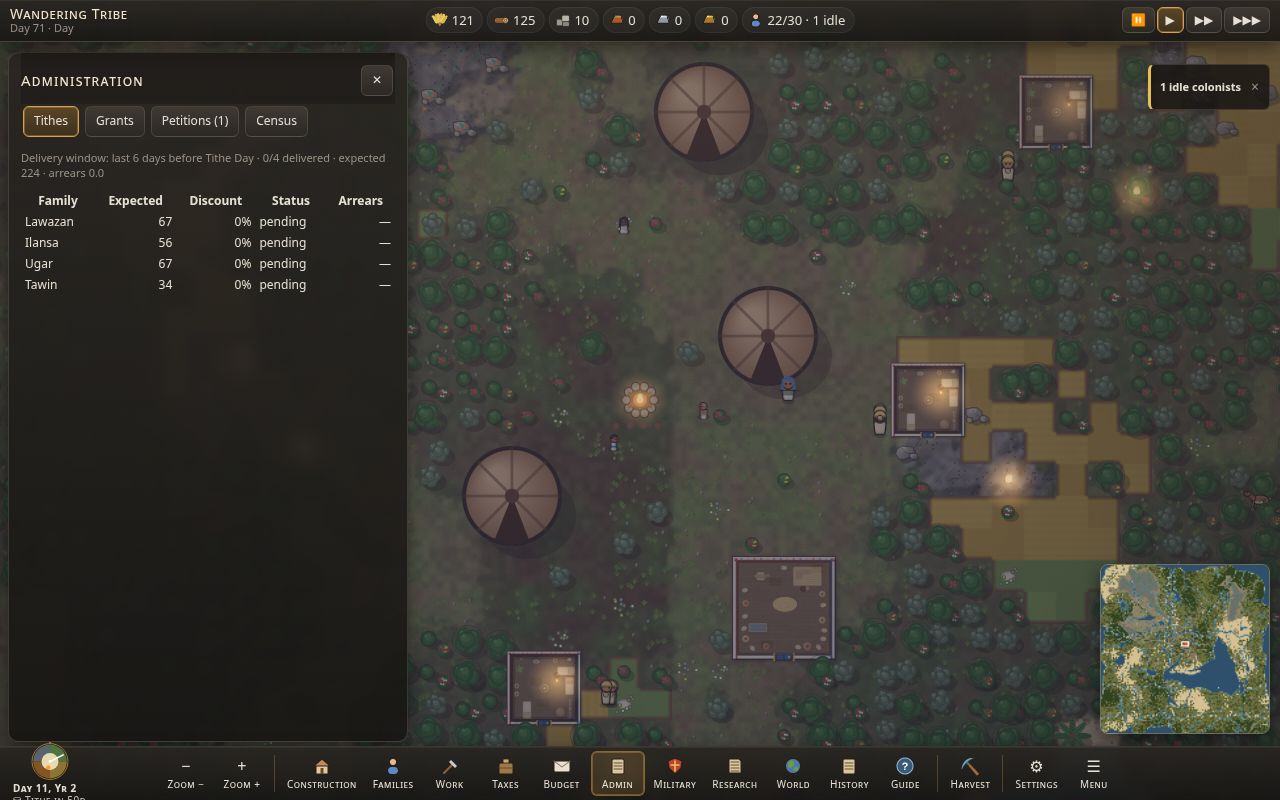
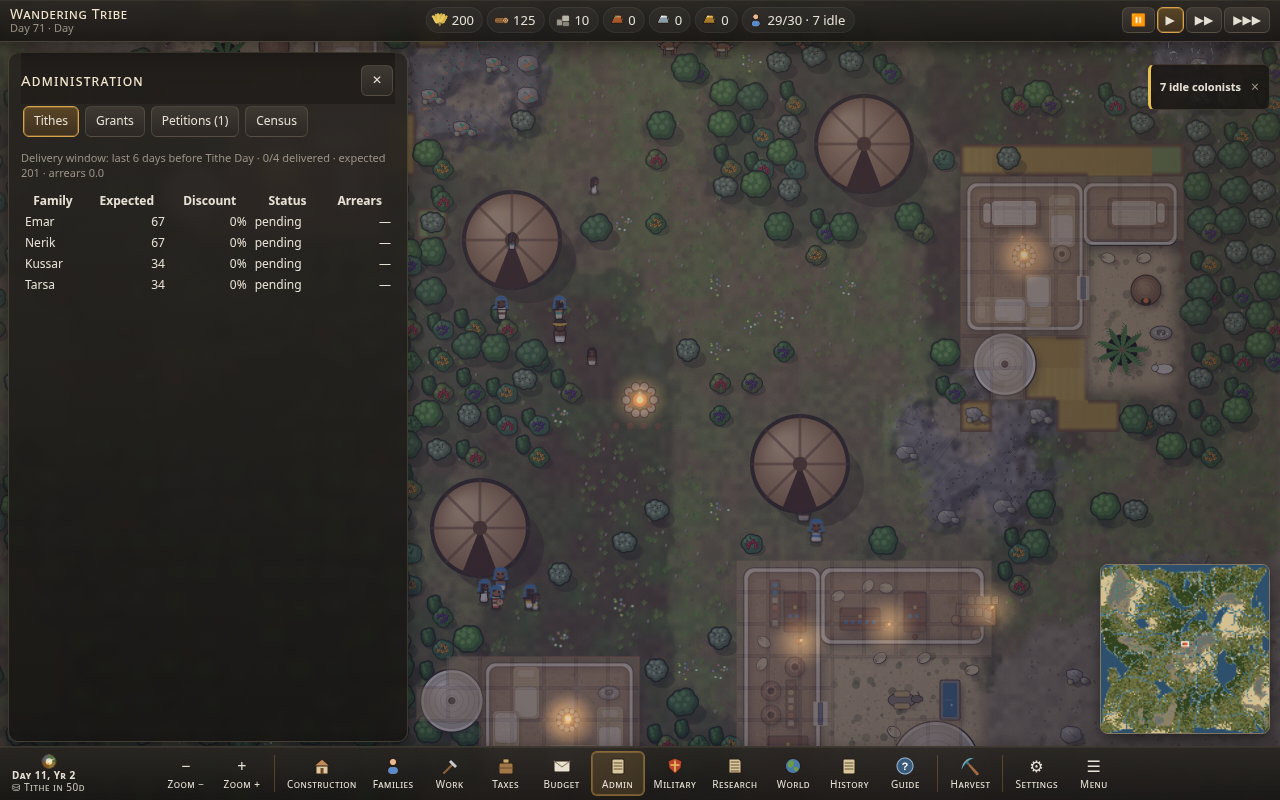
Shape-mask footprints for every building type (own function-specific layout each: L-sheds, dome ovens, courts, paddocks, ore yards, treasury compound, farmstead with byre + grain dome, town house + workshop); per-instance auto variant/rotation; bigger buildings; farmstead compounds placed by mask in

diff --git a/index.html b/index.html
@@ -503,9 +503,10 @@ function grantEval(a,b){const x0=Math.min(a.gx,b.gx),x1=Math.max(a.gx,b.gx),y0=M
  if(r.tiles.length<GRANT_MIN+4)r.err=r.err||('Too small: '+r.tiles.length+' usable tiles (min '+(GRANT_MIN+4)+')');
  const n=r.tiles.length||1;r.land=c.s>=n*.3&&c.w>=3?'clay':c.w>=6?'river':c.f>=n*.4?'forest':c.h>=n*.4?'hills':c.s>=n*.4?'clay':'plain';r.suit=Math.round(Math.min(100,(r.tiles.length/(w*h))*100*(c.w>=3?1.1:1)));return r}
 function grantMake(g){const E=S.eco;if(pendFam()<1){log('No family is waiting for land.');return false}
- // farmhouse: best free 2x2 spot inside the grant, nearest the town
- const set=new Set(g.tiles);let hb=null,bd=1e9;for(let y=g.y0;y<g.y1;y++)for(let x=g.x0;x<g.x1;x++){const ii=[y*MW+x,y*MW+x+1,(y+1)*MW+x,(y+1)*MW+x+1];if(!ii.every(i=>set.has(i)&&TER[i]!==T_FOREST))continue;const d=Math.hypot(x-S.center.x,y-S.center.y);if(d<bd){bd=d;hb={x,y}}}
- if(!hb){log('No flat spot for a farmhouse in that grant.');return false}const hs=new Set([hb.y*MW+hb.x,hb.y*MW+hb.x+1,(hb.y+1)*MW+hb.x,(hb.y+1)*MW+hb.x+1]);
+ // farmstead compound (shape-mask footprint): best free spot inside the grant, nearest the town; masked-out corners may be forest/field
+ const set=new Set(g.tiles),SZ=bsz('stead');let hb=null,bd=1e9,hs=null;for(let y=g.y0;y<=g.y1-SZ+1;y++)for(let x=g.x0;x<=g.x1-SZ+1;x++){const M=fpMask('stead',bfp({t:'stead',x,y}));const ii=[];let ok=true;for(let j=0;j<SZ&&ok;j++)for(let i=0;i<SZ;i++){if(M&&!M[j*SZ+i])continue;const k=(y+j)*MW+x+i;if(!set.has(k)&&TER[k]!==T_FOREST){ok=false;break}if(occ[k]||TER[k]===T_WATER){ok=false;break}ii.push(k)}if(!ok)continue;const d=Math.hypot(x-S.center.x,y-S.center.y);if(d<bd){bd=d;hb={x,y};hs=new Set(ii)}}
+ if(hb)for(const k of hs)if(TER[k]===T_FOREST){TER[k]=T_GRASS;try{dirtyTile(k%MW,k/MW|0)}catch(e){}}// the family clears the trees under its farmstead
+ if(!hb){log('No room for a farmstead in that grant (needs about '+SZ+'×'+SZ+' clear tiles).');return false}
  // take the family: waiting family first, else 3 idle; otherwise from the least important jobs
  const FF=famNextPend();let take=FF?Math.max(1,FF.m.length):3;let idle=S.pop-employed();if(idle<take){let need=take-Math.max(0,idle);const ks=Object.keys(S.jobs).filter(j=>S.jobs[j]>0).sort((a,b)=>(S.prio&&S.prio[b]||3)-(S.prio&&S.prio[a]||3));for(const j of ks){while(need>0&&S.jobs[j]>0){S.jobs[j]--;need--}}if(need>0)S.pop+=need}
  const b={t:'stead',l:1,x:hb.x,y:hb.y};S.bl.push(b);rebuildOcc();try{autoRoadFor(b)}catch(e){}
@@ -1046,7 +1047,7 @@ const SPR={};
 // ---- buildings (hi-res sprites, multi-tile) ----
 const bsz=t=>(BLD[t]&&BLD[t].sz)||1;
 // realistic proportions: buildings at true scale vs ~0.65-tile people (art drawn at design size then scaled)
-const NSZ={tavern:6,shrine:2,senet:2,plaza:5,trainingcamp:7,spearschool:6,archery:7,slingfield:6,axehall:6,stables:7,gatherhut:4,storehouse:6,bakery:6,brewery:6,tent:4,campfire:2,stockpile:5,garden:4,farm:8,house:7,lodge:6,lumber:6,quarry:6,barracks:8,granary:7,well:2,copper:6,tin:6,smelter:7,temple:12,market:8,palace:12,statue:2};
+const NSZ={holding:8,stead:7,craft:7,tavern:8,shrine:3,senet:2,plaza:5,trainingcamp:7,spearschool:6,archery:7,slingfield:6,axehall:6,stables:7,gatherhut:6,storehouse:8,bakery:7,brewery:7,tent:4,campfire:2,stockpile:5,garden:4,farm:8,house:9,lodge:6,lumber:6,quarry:6,barracks:10,granary:8,well:2,copper:6,tin:6,smelter:7,temple:12,market:8,palace:12,statue:3};
 const BCOSTX={house:1.4,barracks:1.4,granary:1.4,temple:1.4,palace:1.3,market:1.3,smelter:1.3,lodge:1.2,lumber:1.2};
 for(const k in NSZ)if(BLD[k]){BLD[k].osz=BLD[k].sz||1;BLD[k].sz=NSZ[k];if(BCOSTX[k])for(const r in BLD[k].cost)BLD[k].cost[r]=Math.round(BLD[k].cost[r]*BCOSTX[k])}
 // ---- placement, occupancy, A*, roads ----
@@ -2857,6 +2858,25 @@ const FP={
  granary:[{n:'Beehive silos',p:[['c',.27,.27,.25,'dome'],['c',.73,.27,.25,'dome'],['c',.27,.73,.25,'dome'],['c',.73,.73,.25,'dome']],door:[.5,.99],k:'silo'},
   {n:'Great dome',p:[['c',.5,.5,.47,'dome']],door:[.5,.97],k:'silo'},{n:'Silo row and yard',p:[['c',.18,.24,.17,'dome'],['c',.5,.24,.17,'dome'],['c',.82,.24,.17,'dome'],['r',.04,.44,.92,.53,'court']],door:[.5,.97],k:'silo'}],
  farm:[{n:'Wheat field',legacy:1}],
+ gatherhut:[{n:'L-shaped gatherers\' shed',p:[['r',.04,.04,.62,.48],['r',.04,.04,.36,.92],['r',.4,.52,.56,.44,'court']],door:[.55,.52],k:'gather'}],
+ bakery:[{n:'Bakehouse with dome oven',p:[['r',.04,.18,.6,.56],['c',.79,.46,.19,'dome'],['r',.04,.74,.62,.22,'court']],door:[.34,.74],k:'bakehouse'}],
+ brewery:[{n:'Brewhouse and mash yard',p:[['r',.04,.04,.92,.44],['e',.27,.73,.23,.22],['r',.54,.48,.42,.48,'court']],door:[.75,.48],k:'brew'}],
+ storehouse:[{n:'Long store with tally room',p:[['r',.04,.08,.6,.86],['r',.64,.3,.32,.46]],door:[.34,.94],k:'store'}],
+ tavern:[{n:'Tavern with drinking yard',p:[['r',.04,.04,.6,.6],['r',.64,.04,.32,.4],['r',.04,.64,.92,.32,'court']],door:[.34,.64],k:'tavern'}],
+ shrine:[{n:'Round shrine and forecourt',p:[['c',.5,.38,.34],['r',.28,.7,.44,.27,'court']],door:[.5,.72],k:'shrine'}],
+ trainingcamp:[{n:'Hut and drill ground',p:[['r',.04,.04,.42,.3],['r',.04,.34,.92,.62,'court']],door:[.25,.34],k:'drill'}],
+ spearschool:[{n:'Spear hall and yard',p:[['r',.04,.04,.92,.3],['r',.04,.34,.92,.62,'court']],door:[.5,.34],k:'spear'}],
+ archery:[{n:'Bow shed and range',p:[['r',.04,.04,.3,.92],['r',.34,.04,.62,.92,'court']],door:[.34,.5],k:'archery'}],
+ slingfield:[{n:'Round hut and sling field',p:[['c',.25,.25,.21],['r',.04,.5,.92,.46,'court']],door:[.25,.46],k:'sling'}],
+ axehall:[{n:'Axe hall and sparring ring',p:[['r',.04,.16,.92,.52],['e',.5,.84,.3,.14,'court']],door:[.5,.68],k:'axe'}],
+ stables:[{n:'L stables round a paddock',p:[['r',.04,.04,.92,.34],['r',.04,.38,.3,.58],['r',.34,.38,.62,.58,'court']],door:[.55,.38],k:'stable2'}],
+ quarry:[{n:'Mason\'s shed and stone yard',p:[['r',.58,.04,.38,.32],['e',.42,.62,.4,.34,'court']],door:[.7,.36],k:'quarryhut'}],
+ copper:[{n:'Miners\' hut and ore yard',p:[['r',.04,.04,.42,.34],['e',.6,.6,.36,.36,'court']],door:[.3,.38],k:'minehut'}],
+ tin:[{n:'Round miners\' hut and ore yard',p:[['c',.27,.27,.23],['e',.62,.64,.34,.32,'court']],door:[.4,.45],k:'minehut2'}],
+ holding:[{n:'Treasury compound round a court',p:[['r',.03,.03,.94,.3],['r',.03,.33,.3,.64],['c',.8,.78,.17,'dome'],['r',.33,.33,.64,.64,'court']],door:[.6,.33],k:'holding'}],
+ stead:[{n:'Farmstead with byre and grain dome',p:[['r',.03,.03,.66,.52],['c',.84,.2,.14,'dome'],['r',.03,.55,.28,.42],['r',.31,.55,.66,.42,'court']],door:[.5,.55],k:'stead'}],
+ craft:[{n:'Town house with workshop',p:[['r',.04,.04,.55,.45],['r',.59,.04,.37,.62],['r',.04,.49,.55,.47,'court']],door:[.3,.49],k:'workshop'}],
+ statue:[{n:'Round plinth',p:[['c',.5,.5,.42]],k:'plinth'}],
  barracks:[{n:'Long barracks',p:[['r',.02,.3,.96,.4]],door:[.5,.7],k:'barracks'},{n:'Stable block',p:[['r',.31,.02,.38,.96]],door:[.69,.5],k:'stable'},
   {n:'L barracks + drill yard',p:[['r',.02,.02,.96,.33],['r',.02,.02,.33,.96],['r',.35,.35,.63,.63,'court']],door:[.18,.98],k:'barracks'}],
  smelter:[{n:'Round kiln house',p:[['c',.5,.5,.47]],door:[.5,.97],k:'kiln'},{n:'Twin kilns',p:[['c',.3,.33,.29],['c',.69,.64,.3]],door:[.69,.94],k:'kiln'}],
@@ -2874,7 +2894,7 @@ function fpMask(t,f){if(!f||!FP[t])return null;const k=t+'|'+(f.v||0)+(f.r||0)+(
   let any=0;for(const v of M)any|=v;if(!any)M=null}
  FPM.set(k,M);return M}
 let CURFP=null,PV={v:0,r:0,m:0};
-const bfp=b=>b&&b.fv&&FP[b.t]?b.fv:null;
+const bfp=b=>{if(!b||!FP[b.t])return null;if(b.fv)return b.fv;if(b._af===undefined){const ok=FP[b.t].map((v,i)=>v.legacy?-1:i).filter(i=>i>=0);b._af=ok.length?{v:ok[(hsh(b.x|0,b.y|0,5)*ok.length)|0],r:(hsh(b.x|0,b.y|0,6)*4)|0,m:hsh(b.x|0,b.y|0,7)<.5?1:0}:null}return b._af};
 function fpDoor(b){const f=bfp(b);if(!f)return null;const V=FP[b.t][f.v||0];if(!V||V.legacy||!V.door)return null;const s=bsz(b.t),d=fpT(V.door[0],V.door[1],f),M=fpMask(b.t,f);if(!M)return null;
  let best=null,bd=1e9;for(let j=0;j<s;j++)for(let i=0;i<s;i++){if(!M[j*s+i])continue;for(const[a,c]of[[1,0],[-1,0],[0,1],[0,-1]]){const ii=i+a,jj=j+c;if(ii>=0&&jj>=0&&ii<s&&jj<s&&M[jj*s+ii])continue;const dd=((ii+.5)/s-d[0])**2+((jj+.5)/s-d[1])**2;if(dd<bd&&walkC(b.x+ii,b.y+jj)){bd=dd;best={x:b.x+ii+.5,y:b.y+jj+.5}}}}return best}
 const FPB={on:0,n:2};// per-frame budget for building new detailed sprites (avoids hitches on phones)
@@ -3100,11 +3120,32 @@ function X_furnish(g,kd,W,test,door,m,l,seed,extra){const id=civId(),PL=X_PAL[id
   for(let i=0;i<6;i++)P(1,26,26,'wall',b=>X_pithos(g,b.cx,b.cy,11),{gap:1});lamps(1,3);P(1,30,30,'wall',b=>X_extra(g,id,b.cx,b.cy,m));
   if(A2){if(kd==='palace')pool(2,Math.min(120,W*.18),Math.min(80,W*.12));for(let i=0;i<3;i++)P(2,56,56,'wall',b=>id==='egypt'||id==='babylon'||id==='minoan'?X_palm(g,b.cx,b.cy,24):X_plant(g,b.cx,b.cy,12),{gap:0,rot:false});P(2,30,30,'center',b=>X_statue(g,b.cx,b.cy,'#e0b040'));for(let i=0;i<2;i++)P(2,20,20,'any',b=>X_brazier(g,b.cx,b.cy,m),{gap:20})}X_RICH=0;return}
  // gatherer's hut: a workplace (workers sleep at home) — drying racks and baskets on the walls, a sorting table with one stool per worker slot, storage jars
- if(kd==='gather'){const WK=4;const BK=(b)=>{X_ell(g,b.cx+1,b.cy+2,7,4.5,'rgba(0,0,0,.22)');X_circ(g,b.cx,b.cy,6,'#b08a4a',X_OL,1);X_circ(g,b.cx,b.cy,4.2,'#8a6a34');for(let k=0;k<5;k++)X_circ(g,b.cx-2.5+X_rnd()*5,b.cy-2.5+X_rnd()*5,1.4,['#b83a4a','#6a3a8a','#c84a2a','#4a7a3a'][k%4])};
+ if(kd==='gather'){const WK=2;const BK=(b)=>{X_ell(g,b.cx+1,b.cy+2,7,4.5,'rgba(0,0,0,.22)');X_circ(g,b.cx,b.cy,6,'#b08a4a',X_OL,1);X_circ(g,b.cx,b.cy,4.2,'#8a6a34');for(let k=0;k<5;k++)X_circ(g,b.cx-2.5+X_rnd()*5,b.cy-2.5+X_rnd()*5,1.4,['#b83a4a','#6a3a8a','#c84a2a','#4a7a3a'][k%4])};
   const RACK=b=>{const v=b.sw,L=v?b.h:b.w;g.save();g.translate(b.cx,b.cy);if(v)g.rotate(Math.PI/2);X_rr(g,-L/2,-2,L,4,1,'#7a5232',X_OL,1);for(const q of[-L/2+2,L/2-2])X_circ(g,q,0,2.6,'#5a3a20',X_OL,.8);for(let x=-L/2+7;x<L/2-5;x+=7){X_ln(g,x,1,x,6,'#6a4a26',1);X_ell(g,x,8,2.6,3.6,['#6a8a3a','#8a7a3a','#7a9a4a','#a8643a'][(x|0)&3],X_OL,.6)}g.restore()};
   P(1,40,22,'center',b=>{X_table(g,b.x+2,b.y+2,b.w-4,b.h-4,'#9a6c40');X_circ(g,b.cx-9,b.cy,3.4,'#c84a2a');X_circ(g,b.cx+8,b.cy-1,3.4,'#4a7a3a');for(let k=0;k<WK;k++)X_stool(g,b.x+9+(k%2)*(b.w-18),k<2?b.y-6:b.y+b.h+6);X_mark(R,b.x-6,b.y-14,b.w+12,b.h+28,0)},{gap:12,rot:false});
   for(let i=0;i<2;i++)P(1,46,12,'wall',RACK,{gap:3});
   for(let i=0;i<4;i++)P(1,14,14,'wall',BK,{gap:1});jars(1,3);return}
+ // ---- function-specific interiors (own layout per kind; workplaces have no beds; work spots = 2 worker slots) ----
+ const shelfW=(c,n,it)=>{for(let i=0;i<n;i++)P(c,48,12,'wall',b=>{if(b.sw){g.save();g.translate(b.cx,b.cy);g.rotate(Math.PI/2);X_shelf(g,-b.h/2,-6,b.h,it||4);g.restore()}else X_shelf(g,b.x,b.y,b.w,it||4)},{gap:3})};
+ const rackW=(c,n)=>{for(let i=0;i<n;i++)P(c,50,14,'wall',b=>X_weaponrack(g,b.cx,b.cy,50,b.sw?Math.PI/2:0),{gap:3})};
+ const bench=(c,w,seats)=>P(c,w,22,'center',b=>{X_table(g,b.x+2,b.y+2,b.w-4,b.h-4,'#8a5a32');for(let k=0;k<seats;k++){const col=k%Math.ceil(seats/2),nc=Math.ceil(seats/2);X_stool(g,b.x+(b.w)*(col+.5)/nc,k<nc?b.y-6:b.y+b.h+6)}X_mark(R,b.x-6,b.y-14,b.w+12,b.h+28,0)},{gap:10,rot:false});
+ const pith=(c,n)=>{for(let i=0;i<n;i++)P(c,22,22,'wall',b=>X_pithos(g,b.cx,b.cy,10),{gap:1})};
+ const target=(c,n)=>{for(let i=0;i<n;i++)P(c,24,24,'wall',b=>{X_circ(g,b.cx,b.cy,10,'#e8dcc0',X_OL,1);X_circ(g,b.cx,b.cy,6.5,'#c84a2a');X_circ(g,b.cx,b.cy,3,'#e8dcc0');X_circ(g,b.cx,b.cy,1.2,'#c84a2a')},{gap:20})};
+ const pile=(c,n,col)=>{for(let i=0;i<n;i++)P(c,22,18,'wall',b=>{for(let k=0;k<6;k++)X_circ(g,b.cx-6+(k%3)*6,b.cy-3+(k/3|0)*6-(k%3===1?2:0),4,col,X_OL,.6)},{gap:2})};
+ if(kd==='bakehouse'){bench(1,46,2);P(1,26,18,'wall',b=>X_quern(g,b.cx,b.cy));sacks(1,3);shelfW(1,1,5);jars(1,2);if(A2){pile(2,1,'#8a6038');trough(2)}return}
+ if(kd==='brew'){pith(1,5);bench(1,44,2);sacks(1,3);jars(1,3);if(A2){hearthC(2,11);P(2,30,30,'wall',b=>X_oven(g,b.cx,b.cy,13));jars(2,3)}return}
+ if(kd==='store'){shelfW(1,3,6);pith(1,4);sacks(1,8);jars(1,6);P(1,40,24,'far',b=>{X_desk(g,b.cx,b.cy,m);X_tablets(g,b.cx+12,b.cy-8,3)},{gap:6});return}
+ if(kd==='tavern'){hearthC(1,12);for(let i=0;i<2;i++)bench(1,44,4);shelfW(1,1,6);pith(1,2);jars(1,3);if(A2){bench(2,40,4);P(2,22,22,'wall',b=>X_plant(g,b.cx,b.cy,9))}return}
+ if(kd==='shrine'){P(1,30,20,'center',b=>X_altar(g,b.x,b.y,b.w,b.h,m),{gap:8,rot:false});lamps(1,2);P(1,14,14,'wall',b=>X_offering(g,b.cx,b.cy));if(A2){P(2,18,18,'center',b=>X_brazier(g,b.cx,b.cy,m),{gap:6})}return}
+ if(kd==='drill'||kd==='spear'||kd==='axe'){rackW(1,kd==='spear'?3:2);for(let i=0;i<3;i++)P(1,16,16,'wall',b=>X_shield(g,b.cx,b.cy,'#8a4a2a'),{gap:2});P(1,40,22,'wall',b=>X_chest(g,b.x,b.y,b.w,b.h,0),{gap:4});if(kd==='axe')P(1,26,22,'center',b=>X_anvil(g,b.cx,b.cy));if(A2){for(let i=0;i<3;i++)P(2,12,12,'center',b=>{X_circ(g,b.cx,b.cy,4,'#6a4a2a',X_OL,.8);X_ln(g,b.cx,b.cy-10,b.cx,b.cy,'#7a5232',2)},{gap:26})}return}
+ if(kd==='archery'){rackW(1,2);sacks(1,2);jars(1,2);P(1,40,22,'wall',b=>X_chest(g,b.x,b.y,b.w,b.h,0));if(A2)target(2,3);return}
+ if(kd==='sling'){pile(1,2,'#a8a294');rackW(1,1);if(A2){target(2,3);pile(2,2,'#a8a294')}return}
+ if(kd==='stable2'){for(let i=0;i<2;i++)trough(1);for(let i=0;i<3;i++)P(1,56,30,'wall',b=>X_horse(g,b.cx,b.cy,i%2?1:-1,['#6a4226','#3a2a1a','#a87a4a'][i]),{gap:4,rot:false});sacks(1,3);rackW(1,1);if(A2){P(2,56,30,'any',b=>X_horse(g,b.cx,b.cy,1,'#8a5a32'),{rot:false});trough(2)}return}
+ if(kd==='quarryhut'||kd==='minehut'||kd==='minehut2'){rackW(1,1);bench(1,40,2);sacks(1,2);if(kd!=='quarryhut')P(1,30,16,'wall',b=>X_ingots(g,b.cx,b.cy,4));if(A2){const col=kd==='quarryhut'?'#c8c0b0':kd==='minehut'?'#5a8a6a':'#8a9aa8';pile(2,4,col)}return}
+ if(kd==='holding'){P(1,40,24,'far',b=>{X_desk(g,b.cx,b.cy,m);X_tablets(g,b.cx+12,b.cy-8,4);X_stool(g,b.cx,b.cy+16)},{gap:8});for(let i=0;i<4;i++)P(1,40,22,'wall',b=>X_chest(g,b.x,b.y,b.w,b.h,1),{gap:3});pith(1,6);sacks(1,6);shelfW(1,2,6);lamps(1,2);if(A2){trough(2);P(2,60,24,'any',b=>X_donkey(g,b.cx,b.cy,1),{rot:false});sacks(2,4)}return}
+ if(kd==='stead'){hearthC(1,12);for(let i=0;i<2;i++)P(1,26,52,'wall',b=>X_bed(g,b.cx,b.cy,X_pick(PL.lin),b.rot,0));for(let i=0;i<6;i++)P(1,20,34,i<3?'wall':'any',b=>X_pallet(g,b.cx,b.cy,X_pick(PL.lin),b.rot));P(1,26,18,'wall',b=>X_quern(g,b.cx,b.cy));jars(1,3);court();return}
+ if(kd==='workshop'){hearthC(1,10);for(let i=0;i<5;i++)P(1,20,34,'wall',b=>X_pallet(g,b.cx,b.cy,X_pick(PL.lin),b.rot));bench(1,44,2);shelfW(1,2,5);P(1,26,22,'wall',b=>X_anvil(g,b.cx,b.cy));jars(1,3);court();return}
+ if(kd==='plinth'){P(1,30,30,'center',b=>X_statue(g,b.cx,b.cy,'#c8903a'),{gap:0,rot:false});return}
  if(kd==='lodge'){hearthC(1,11);P(1,50,26,'any',b=>{X_table(g,b.x+3,b.y+3,b.w-6,b.h-6,'#8a5a32');X_stool(g,b.x-3,b.cy);X_stool(g,b.x+b.w+3,b.cy)},{gap:8});for(let i=0;i<2;i++)P(1,40,28,'wall',b=>{X_rug(g,b.x,b.y,b.w,b.h,'#8a6038','#c8a868','#5a3a1c')});P(1,50,14,'wall',b=>X_weaponrack(g,b.cx,b.cy,50,b.sw?Math.PI/2:0));sacks(1,2);jars(1,2);return}
  if(kd==='market'){if(A2){P(2,48,48,'center',b=>{X_circ(g,b.cx,b.cy,20,'#a8a294',X_OL,1.2);X_circ(g,b.cx,b.cy,13,'#2e5a78');X_ln(g,b.cx-22,b.cy,b.cx+22,b.cy,'#7a5232',2);X_water(m,b.cx-10,b.cy-10,20,20)},{rot:false});
   P(2,44,24,'any',b=>{X_table(g,b.x,b.y,b.w,b.h,'#9a6c40');X_rr(g,b.x+8,b.y+6,10,10,2,'#c8803a');X_circ(g,b.x+30,b.cy,4,'#a8a294')});for(let i=0;i<4;i++)P(2,14,14,'any',b=>X_circ(g,b.cx,b.cy,6,'#c8a868',X_OL,.6),{gap:2});P(2,60,24,'any',b=>X_donkey(g,b.cx,b.cy,1),{rot:false});P(2,26,16,'any',b=>X_goat(g,b.cx,b.cy,-1));jars(2,4);sacks(2,4)}return}}

diff --git a/shots/building-audit.md b/shots/building-audit.md
@@ -1,11 +1,46 @@
-# Building interior audit (rules: wall placement, count = capacity, function-appropriate, pawn scale)
-Sheet: shots/interiors-compare.png (top = before, bottom = after)
+# Building redesign: shapes and interiors (per building)
 
-| Building | Problem before | Fix |
-|---|---|---|
-| Gatherer's Hut | Reused the hunting-lodge layout: bedrolls, hearth, spears on the floor | Own layout: herb drying rack against the wall, sorting table in the middle with 4 stools (one per worker slot), berry baskets along the walls, storage jars when there's room. No beds or hearth (it's a workplace) |
-| Hunting Lodge (hidden from build menu) | Two sleeping pallets in a workplace | Pallets replaced by a butchering table with stools. The spear rack stays on the wall |
-| House | Beds were capped at 2 + level (3 for 5 residents) | One bed per resident (5 per level), filling the walls first, then free floor (children's pallets). Shrinks only if the floor is too small. Every home now gets storage jars, plus the existing hearth and quern |
-| Tent (old furnish path) | 2 bedrolls for 3 residents | 3 bedrolls per level (one per resident). The live tent interior already sizes bedding to the actual occupants |
-| Barracks, storehouse, bakery, smelter | Checked on the sheet | No change made. Barracks bunks look reasonable. Storehouse, bakery and smelter contents fit their function |
-| Not done | | Bigger footprints and family compounds with outbuildings, pathfinding around furniture, per-spot poses (only sleeping in tents) |
+Sheet: shots/buildings-compare.png (top = before, bottom = after). Counts come from instrumented rendering (shots/building-check: /workspace/tmp/sheet2.js). Reachable = every footprint tile connects to the outside (4-neighbour) - automatic check.
+
+| Building | Before | After (shape, size) | Beds | Seats/work spots | Racks | Reachable |
+|---|---|---|---|---|---|---|
+| house | square (legacy) 7×7, beds 5 | Family compound, 9×9 | 5 | 0 | 0 | ok |
+| stead | square (legacy) 2×2, beds 0 | Farmstead with byre and grain dome, 7×7 | 5 | 0 | 0 | ok |
+| craft | square (legacy) 2×2, beds 9 | Town house with workshop, 7×7 | 5 | 0 | 0 | ok |
+| holding | square (legacy) 3×3, beds 0 | Treasury compound round a court, 8×8 | 0 | 2 | 0 | ok |
+| gatherhut | square (legacy) 4×4, beds 0 | L-shaped gatherers' shed, 6×6 | 0 | 2 | 0 | ok |
+| lodge | square (legacy) 6×6, beds 0 | Oval lodge, 6×6 | 0 | 2 | 1 | ok |
+| bakery | square (legacy) 6×6, beds 0 | Bakehouse with dome oven, 7×7 | 0 | 2 | 0 | ok |
+| brewery | square (legacy) 6×6, beds 0 | Brewhouse and mash yard, 7×7 | 0 | 2 | 0 | ok |
+| storehouse | square (legacy) 6×6, beds 0 | Long store with tally room, 8×8 | 0 | 1 | 0 | ok |
+| granary | square (legacy) 7×7, beds 0 | Beehive silos, 8×8 | 0 | 0 | 0 | ok |
+| smelter | square (legacy) 7×7, beds 0 | Round kiln house, 7×7 | 0 | 0 | 0 | ok |
+| quarry | square (legacy) 6×6, beds 0 | Mason's shed and stone yard, 6×6 | 0 | 0 | 0 | ok |
+| copper | square (legacy) 6×6, beds 0 | Miners' hut and ore yard, 6×6 | 0 | 0 | 1 | ok |
+| tin | square (legacy) 6×6, beds 0 | Round miners' hut and ore yard, 6×6 | 0 | 0 | 1 | ok |
+| barracks | square (legacy) 8×8, beds 8 | Long barracks, 10×10 | 5 | 0 | 2 | ok |
+| trainingcamp | square (legacy) 7×7, beds 4 | Hut and drill ground, 7×7 | 0 | 0 | 1 | ok |
+| spearschool | square (legacy) 6×6, beds 3 | Spear hall and yard, 6×6 | 0 | 0 | 3 | ok |
+| archery | square (legacy) 7×7, beds 4 | Bow shed and range, 7×7 | 0 | 0 | 2 | ok |
+| slingfield | square (legacy) 6×6, beds 3 | Round hut and sling field, 6×6 | 0 | 0 | 0 | ok |
+| axehall | square (legacy) 6×6, beds 3 | Axe hall and sparring ring, 6×6 | 0 | 0 | 2 | ok |
+| stables | square (legacy) 7×7, beds 0 | L stables round a paddock, 7×7 | 0 | 0 | 1 | ok |
+| tavern | square (legacy) 6×6, beds 4 | Tavern with drinking yard, 8×8 | 0 | 12 | 0 | ok |
+| shrine | square (legacy) 1×1, beds 0 | Round shrine and forecourt, 1×1 | 0 | 0 | 0 | ok |
+| statue | square (legacy) 2×2, beds 0 | Round plinth, 3×3 | 0 | 0 | 0 | ok |
+| temple | square (legacy) 12×12, beds 0 | Temple with forecourt, 12×12 | 0 | 0 | 0 | ok |
+| palace | square (legacy) 12×12, beds 2 | Megaron long hall, 12×12 | 0 | 0 | 0 | ok |
+| market | square (legacy) 8×8, beds 0 | Clustered stalls, 8×8 | 0 | 0 | 0 | ok |
+| lumber | square (legacy) 6×6, beds 0 | Oval sawyard, 6×6 | 0 | 0 | 0 | ok |
+## How footprints work
+- Every building type with a shape now has a shape-mask footprint (rects, circles, ellipses, domes, open courts). Placement checks, occupancy (collision) and pathing (A* uses occupancy) only block the masked tiles; courts and cut-away corners stay walkable ground.
+- Buildings without a chosen variant (auto-placed steads, town houses, Holding, old-save buildings) pick a stable per-instance shape, rotation and mirror from their position, so neighbours differ.
+- Per-tribe materials come from the existing tribe wall/floor palettes (civA()).
+
+## Known gaps
+- One shape per new type (houses, granary, barracks, smelter, palace have 2-4 already); multiple validated variants per type is the next task.
+- Stead sleeps 5-8 depending on rotation; big families (10-14) are short of beds. Barracks shows 5 bunks.
+- Quarry, smelter, slingfield: no seats (work is standing/at the kiln); mines' work bench didn't fit in the hut at this size.
+- Shrine BLD is 1x1 (hidden, deleted size) - shape defined but tiny. Garden, well, campfire, plaza, senet, walls, bridges keep their open/legacy art (no interior).
+- Old saves: enlarged buildings may overlap their neighbours visually (occupancy is recomputed, no crash).
+- Doors on some rotations sit at a gap between rooms rather than on a wall face.
